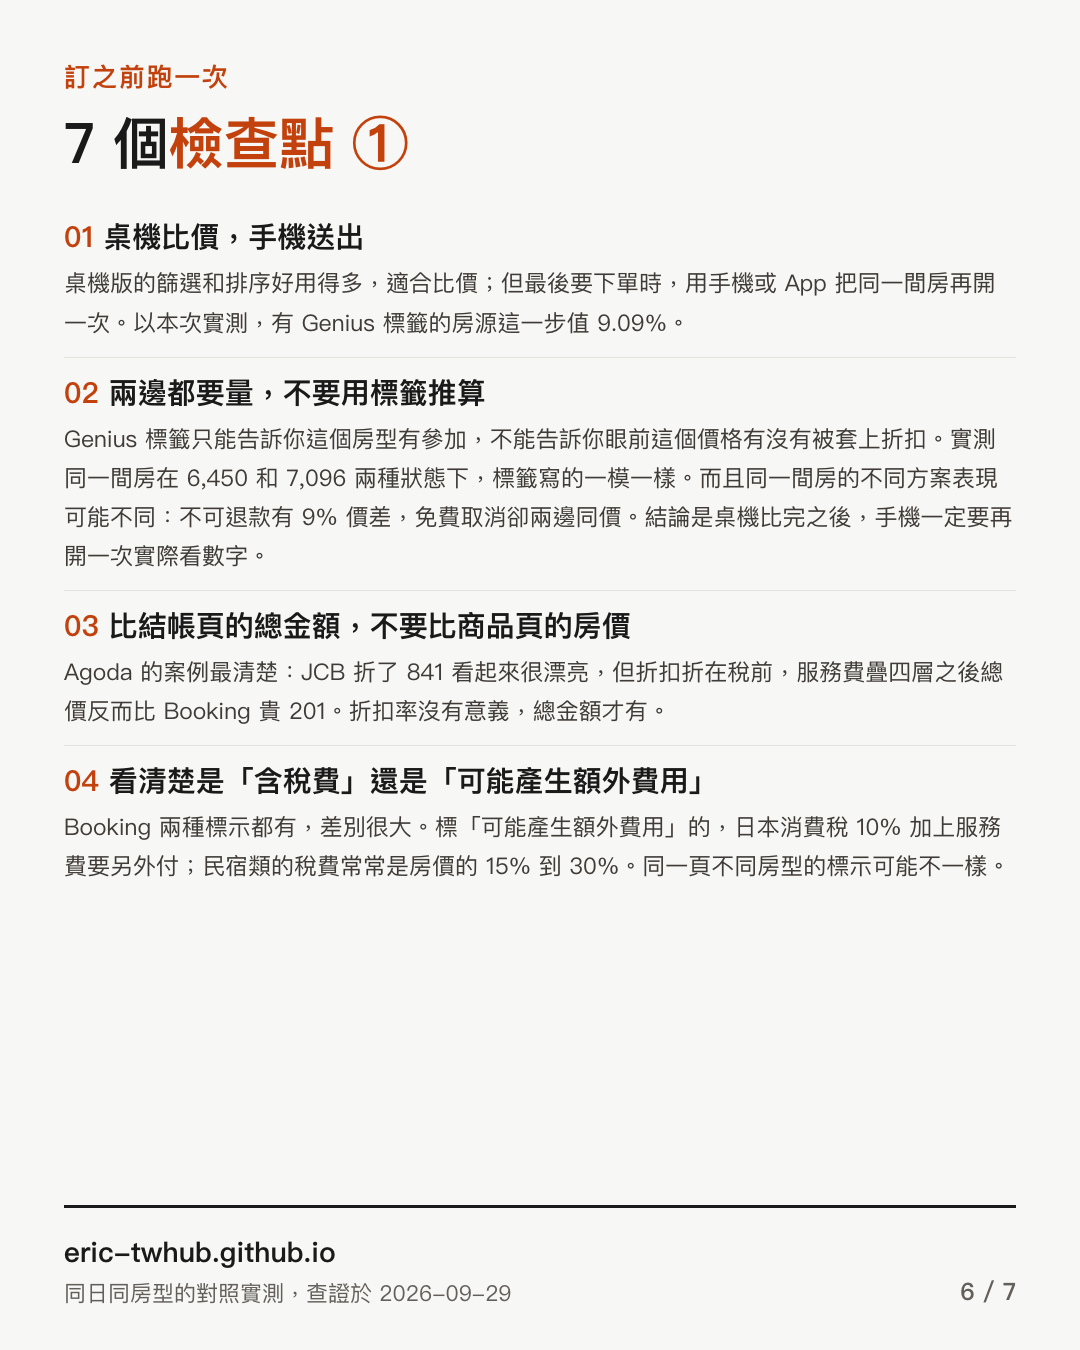
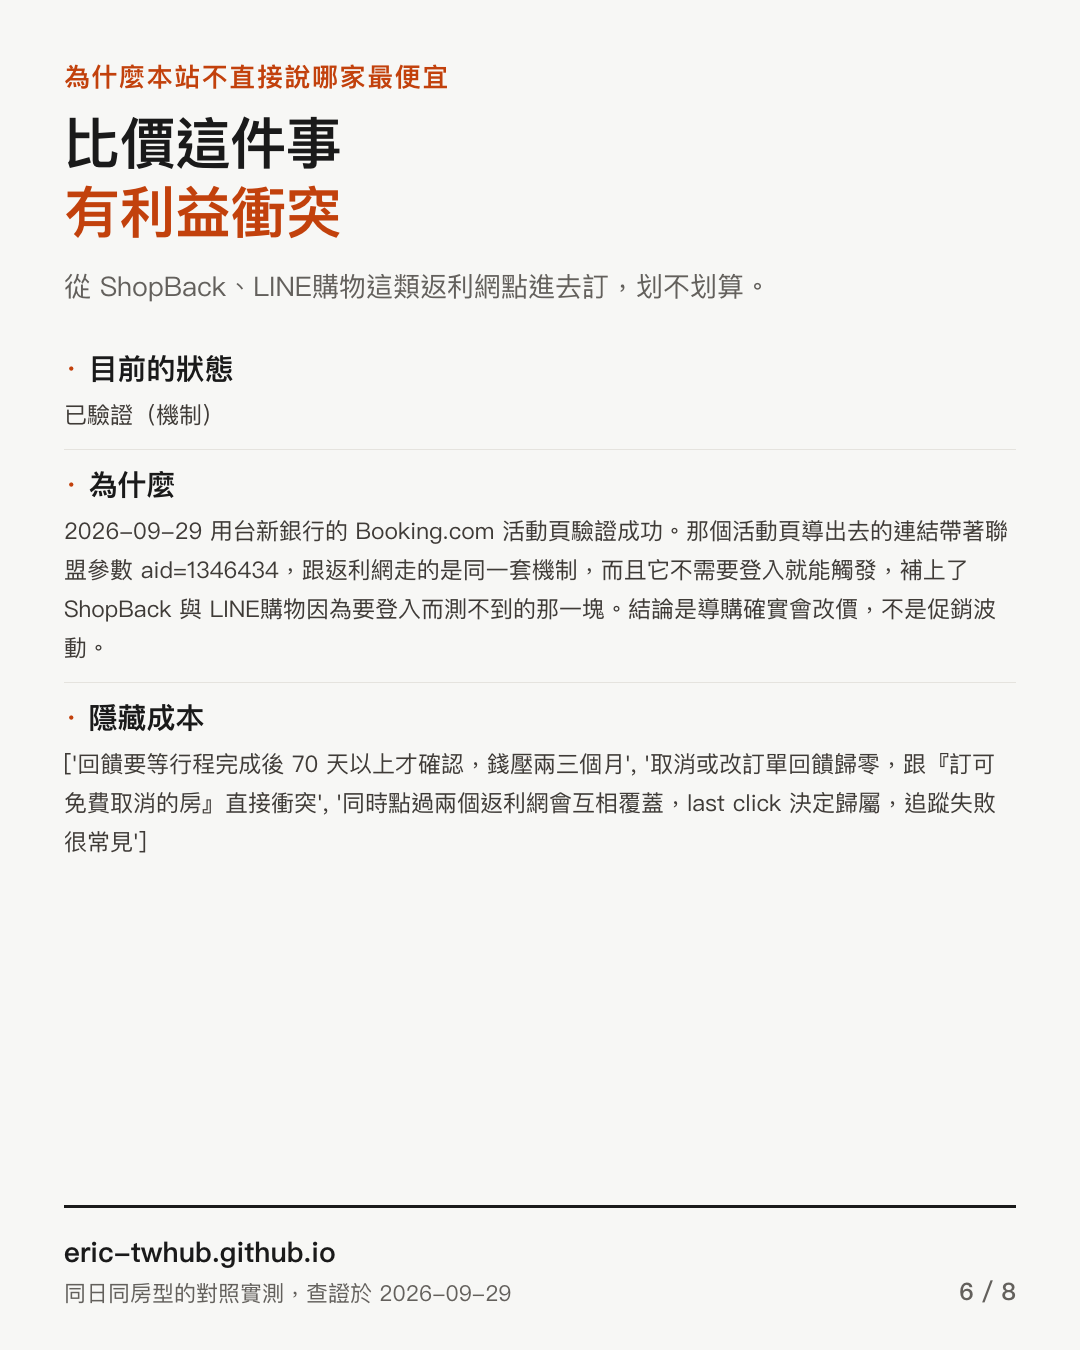
訂房比價：開頭先說是哪個平台，並解釋 Genius 是什麼
整頁的判斷規則都建立在「有沒有 Genius 標籤」上，但標題、開場與
結論框都沒寫這是 Booking.com，而 Genius 也是沒解釋過的名詞。
讀者第一眼看到的是一個不知道哪來的 9%，和一個看不懂的標籤。

標題與開場加上 Booking.com。結論框改寫成「掛著折扣標籤的房源」。
實測表之前補一段說明：Genius 是 Booking 的常客計畫，免費帳號就是
1 級享 10% 折扣，兩年 5 筆升 2 級、15 筆升 3 級，折扣不含稅費；
標籤長什麼樣、不用登入也看得到。等級與折扣引 Booking 官方頁面。
常見問題也補一題。

圖卡同步：封面加上 Booking 並改寫成不含名詞的開場（圖卡會被單獨
轉發，不能指望他看過頁面），另外加一張解釋 Genius，七張變八張。
順帶把那支產生器的頁碼從手寫死改成收集後編號，中間插一張就不用
逐行改 foot() 與檔名。

Changed region(s): [[0.0611, 0.0311, 0.9472, 0.6533], [0.8861, 0.9333, 0.9472, 0.9644]]

diff --git a/gen.py b/gen.py
@@ -10024,6 +10024,7 @@ PC = (json.load(open('price-check.json', encoding='utf-8'))
       if os.path.exists('price-check.json') else None)
 if PC:
     _pc_s = PC['sample']; _pc_d = PC['device']; _pc_r = PC['referral']
+    _pc_g = PC.get('genius')
     _PSM = '<br><small style="color:var(--dim)">'
 
     def _pc_pct(a, b):
@@ -10081,6 +10082,13 @@ if PC:
                       f'<div>{html.escape(c["a"])}</div></details>' for c in PC['checklist'])
 
     _pc_faq = [
+     ('Genius 是什麼？要付費嗎？',
+      ('不用付費。Genius 是 Booking.com 自己的常客計畫：註冊免費帳號就是 1 級，'
+       '住宿享 10% 折扣；兩年內訂滿 5 筆升 2 級，折扣 10–15%；滿 15 筆升 3 級，'
+       '折扣 10–20%。折扣不含稅費與其他費用。有參加的房源會在價格旁邊掛一個標籤，'
+       '寫著「已計入 10% 的 Genius 折扣」之類的字樣，不用登入也看得到。'
+       '本頁的判斷規則就是看這個標籤在不在。')
+      if PC.get('genius') else '見本頁說明。'),
      ('訂房用手機真的比較便宜嗎？',
       f'在 Booking.com 上，有 Genius 折扣標籤的房源會。本站在 {PC["checked"]} 用同一個未登入的'
       f'瀏覽器、同一分鐘、只改變視窗尺寸，量測 {_pc_n} 間東京飯店：'
@@ -10121,17 +10129,20 @@ if PC:
 
     # 分享圖卡。由 make_*_cards.py 產生，骨架見 cardkit.py。
     _PCC_CARD = [
-     ('01', '換個裝置價格就不一樣', '實測結果'),
-     ('02', '手機版便宜 9.09%', 'Booking 同房對照'),
-     ('03', '四個通路測下來', '不是每家都這樣'),
-     ('04', '比結帳頁的總價', '六個通路'),
-     ('05', '比價這件事有利益衝突', '本站的處理'),
-     ('06', '訂之前的檢查點 ①', '七條'),
-     ('07', '訂之前的檢查點 ②', '續前'),
+     ('01', 'Booking 換個裝置價格就不一樣', '實測結果'),
+     ('02', 'Genius 是 Booking 的常客計畫', '整頁的判斷規則靠這個標籤'),
+     ('03', '手機版便宜 9.09%', 'Booking 同房對照'),
+     ('04', '四個通路測下來', '不是每家都這樣'),
+     ('05', '比結帳頁的總價', '六個通路'),
+     ('06', '比價這件事有利益衝突', '本站的處理'),
+     ('07', '訂之前的檢查點 ①', '七條'),
+     ('08', '訂之前的檢查點 ②', '續前'),
     ]
+    _PCC_CARD = [c for c in _PCC_CARD
+                 if os.path.exists(f'hotel-price-check/cards/pc-{c[0]}.png')]
     _pcg_cards = (
       '<h2>整理成圖片</h2>'
-      '<p class="lede">同一份資料做成 7 張圖，存下來或轉發都可以，'
+      f'<p class="lede">同一份資料做成 {len(_PCC_CARD)} 張圖，存下來或轉發都可以，'
       '不用註明出處。點圖看原尺寸。</p>'
       '<style>'
       '.pcg{display:grid;grid-template-columns:repeat(4,1fr);gap:14px;margin:14px 0}'
@@ -10156,24 +10167,34 @@ if PC:
       + '<p class="disc">圖上的數字都是從這一頁同一份資料產生的，沒有另外手打。</p>')
 
     write('hotel-price-check/index.html',
-      head(f'訂房比價｜同一間房，手機版比桌機版便宜 {_pc_avg:.1f}%',
+      head(f'Booking 訂房比價｜同一間房，手機版比桌機版便宜 {_pc_avg:.1f}%',
            f'同一間飯店、同一組日期、同一個瀏覽器，只改變視窗尺寸，Booking 的價格就少 '
            f'{_pc_avg:.2f}%。{_pc_n} 間東京飯店實測，附判斷規則、六個訂房通路的價差對照，'
            f'以及返利網要多少回饋才划得來的計算公式。',
            'hotel-price-check/',
            '<script type="application/ld+json">' + _pc_ld + '</script>')
       + crumbs([('首頁', '/'), ('訂房比價', None)]) + topnav()
-      + '<h1>同一間房，手機版比桌機版便宜 9%</h1>'
-      + f'<p class="lede">同一間飯店、同一組日期、同一個沒登入的瀏覽器，'
-        f'只是把視窗縮成手機尺寸，價格就少 {_pc_avg:.2f}%。'
+      + f'<h1>Booking 同一間房，手機版比桌機版便宜 {_pc_avg:.0f}%</h1>'
+      + f'<p class="lede">在 <b>Booking.com</b> 上，同一間飯店、同一組日期、'
+        f'同一個沒登入的瀏覽器，只是把視窗縮成手機尺寸，價格就少 {_pc_avg:.2f}%。'
         f'{_pc_n} 間實測，手機版剛好是桌機版除以 1.1。'
-        f'但這個價差是逐一房價方案出現的，<b>而且會消失</b>，所以每次都要兩邊都量。</p>'
+        f'但這個價差是逐一房價方案出現的，<b>而且會消失</b>，所以每次都要兩邊都量。'
+        f'其他訂房平台的結果不一樣，'
+        f'往下有 {len(PC["platforms"]["rows"])} 個平台的對照。</p>'
       + f'<div class="today"><div class="tday">查證於 {PC["checked"]}'
         f'　·　樣本 {html.escape(_pc_s["dates"])}，{_pc_s["nights"]} 晚單人</div>'
-        f'<div class="tans">有 Genius 標籤的房源，手機版便宜 {_pc_avg:.2f}%；'
-        f'沒有標籤的兩邊同價</div>'
+        f'<div class="tans">Booking 上掛著折扣標籤的房源，'
+        f'手機版便宜 {_pc_avg:.2f}%；沒有標籤的兩邊同價</div>'
         f'<div class="tsub">{html.escape(_pc_s["note"])}。'
         f'本頁的價格是量測當下的快照，用途是呈現差異而非報價。</div></div>'
+      + (('<h2>先說那個標籤是什麼</h2>'
+          f'<p class="lede">{html.escape(_pc_g["what"])}</p>'
+          f'<p class="lede">{html.escape(_pc_g["where"])}'
+          f'<b>{html.escape(_pc_g["nologin"])}</b></p>'
+          f'<blockquote class="q">{html.escape(_pc_g["quote"])}'
+          f'<cite><a href="{_pc_g["src"]}" target="_blank" rel="nofollow noopener">'
+          f'{html.escape(_pc_g["src_name"])}</a></cite></blockquote>')
+         if _pc_g else '')
       + f'<h2>{_pc_n} 間實測</h2>'
       + '<div class="tw"><table><thead><tr><th>飯店</th><th>Genius 標籤</th>'
         '<th>不可退款</th><th>可免費取消</th><th>差</th></tr></thead><tbody>'

diff --git a/make_pricecheck_cards.py b/make_pricecheck_cards.py
@@ -8,26 +8,45 @@ import cardkit as K
 
 E, page, foot = K.E, K.page, K.foot
 OUT = 'hotel-price-check/cards'
-N = 7
 
 
 def build(d):
     fn = f'同日同房型的對照實測，查證於 {d["checked"]}'
     dev, plat, ch, ck = d['device'], d['platforms'], d['channels'], d['checklist']
     sm = d['sample']
-    out = []
+    pend = []
+    _g = [(1 - r['mobile_fc'] / r['desktop_fc']) * 100
+          for r in dev['rows'] if r.get('genius')]
+    avg = sum(_g) / len(_g)
 
     cover = ('<div class="kick">訂房比價</div>'
-             '<h1>換個裝置，<br><em>價格就不一樣</em></h1>'
-             f'<div class="sub">{E(dev["finding"])}</div>'
+             '<h1>Booking 換個裝置，<br><em>價格就不一樣</em></h1>'
+             '<div class="sub">同一間飯店、同一組日期、同一個沒登入的瀏覽器，'
+             f'只是把視窗縮成手機尺寸，價格就少 {avg:.2f}%。'
+             '但不是每一間都這樣，怎麼判斷看下一張。</div>'
              '<div class="stat">'
              f'<div><b>{len(plat["rows"])}</b><span>個通路<br>同日同房型</span></div>'
              f'<div><b>{len(dev["rows"])}</b><span>組裝置<br>對照實測</span></div>'
              f'<div><b>{sm["nights"]}</b><span>晚<br>{E(str(sm["city"]))}</span></div>'
              f'<div><b>{len(ck)}</b><span>個檢查點<br>訂之前跑一次</span></div></div>'
-             f'<div class="note">{E(sm["note"])}</div>'
-             + foot(1, N, fn))
-    out.append(('pc-01.png', page(cover, 'cover')))
+             f'<div class="note">{E(sm["note"])}</div>')
+    pend.append((cover, 'cover'))
+
+    # 整組圖卡的判斷規則都建立在那個標籤上，讀者不一定知道那是什麼，
+    # 而圖卡會被單獨轉發，不能指望他看過頁面。
+    g = d.get('genius')
+    if g:
+        pend.append((
+            '<div class="kick">先說那個標籤是什麼</div>'
+            '<h1>Genius 是 Booking 的<br><em>常客計畫</em></h1>'
+            f'<div class="sub">{E(g["what"])}</div>'
+            '<div class="list">'
+            f'<div class="blk"><b><i>·</i>標籤長什麼樣</b><s>{E(g["where"])}</s></div>'
+            f'<div class="blk"><b><i>·</i>要登入才看得到嗎</b>'
+            f'<s>{E(g["nologin"])}</s></div>'
+            f'<div class="blk"><b><i>·</i>官方頁面寫的</b>'
+            f'<s>{E(g["quote"])}　（{E(g["src_name"])}）</s></div>'
+            '</div>', ''))
 
     # 裝置價差：Booking 同房型的桌機 vs 手機
     rows = ('<div class="hd"><div class="nm">旅館</div>'
@@ -59,8 +78,8 @@ def build(d):
              '<div class="legend">優先列不可退款方案的每晚房價，'
              '沒有的改列免費取消方案（列上有標）。'
              '同一間房兩種方案不一定有同樣的差，所以兩邊都要量。</div>'
-             f'<div class="list">{rows}</div>' + foot(2, N, fn))
-    out.append(('pc-02.png', page(inner)))
+             f'<div class="list">{rows}</div>')
+    pend.append((inner, ''))
 
     # 哪些通路有裝置價差
     ST = {'有差': ('ok', '有差'), '無差': ('z', '沒有差'), '未測得': ('z', '未測得')}
@@ -75,8 +94,8 @@ def build(d):
              f'<div class="sub">{E(plat["_說明"])}</div>'
              '<div class="legend">「未測得」是這個瀏覽器抓不到價格，'
              '不是代表沒有價差。要自己開 App 再比一次。</div>'
-             f'<div class="list">{rows}</div>' + foot(3, N, fn))
-    out.append(('pc-03.png', page(inner)))
+             f'<div class="list">{rows}</div>')
+    pend.append((inner, ''))
 
     # 同一間房在各通路的總價
     rows = ('<div class="hd"><div class="nm">通路與退改</div>'
@@ -92,8 +111,8 @@ def build(d):
              f'<div class="sub">{E(str(ch["hotel"]))}。'
              '房價看起來便宜的，加完服務費與稅不一定還便宜。</div>'
              f'<div class="legend">{E(str(ch.get("official_rule") or ""))}</div>'
-             f'<div class="list">{rows}</div>' + foot(4, N, fn))
-    out.append(('pc-04.png', page(inner)))
+             f'<div class="list">{rows}</div>')
+    pend.append((inner, ''))
 
     rf = d['referral']
     inner = ('<div class="kick">為什麼本站不直接說哪家最便宜</div>'
@@ -105,8 +124,8 @@ def build(d):
              + (f'<div class="blk"><b><i>·</i>隱藏成本</b>'
                 f'<s>{E(str(rf["hidden_costs"]))}</s></div>'
                 if rf.get('hidden_costs') else '')
-             + '</div>' + foot(5, N, fn))
-    out.append(('pc-05.png', page(inner)))
+             + '</div>')
+    pend.append((inner, ''))
 
     # checklist 每條都是 {q, a}，說明都不短，拆成兩張
     for j, part in enumerate((ck[:4], ck[4:]), 0):
@@ -116,9 +135,12 @@ def build(d):
             for i, c in enumerate(part, 1 + j * 4))
         inner = ('<div class="kick">訂之前跑一次</div>'
                  f'<h1>{len(ck)} 個<em>檢查點 {"①" if j == 0 else "②"}</em></h1>'
-                 + f'<div class="list">{rows}</div>' + foot(6 + j, N, fn))
-        out.append((f'pc-0{6 + j}.png', page(inner)))
-    return out
+                 + f'<div class="list">{rows}</div>')
+        pend.append((inner, ''))
+
+    n = len(pend)
+    return [(f'pc-{i:02d}.png', page(inner + foot(i, n, fn), cls))
+            for i, (inner, cls) in enumerate(pend, 1)]
 
 
 # 指紋要讓 gen.py import 得到才有用。原本寫成 K.run() 裡的 lambda，
@@ -126,7 +148,8 @@ def build(d):
 def payload(d):
     """圖卡真正用到的欄位。改了這些才需要重跑，其他欄位變動不算。"""
     return [d['platforms']['rows'], d['device']['rows'],
-            d['channels']['rows'], d['checklist'], d['checked']]
+            d['channels']['rows'], d['checklist'], d['checked'],
+            d.get('genius')]
 
 
 def fingerprint(d):
